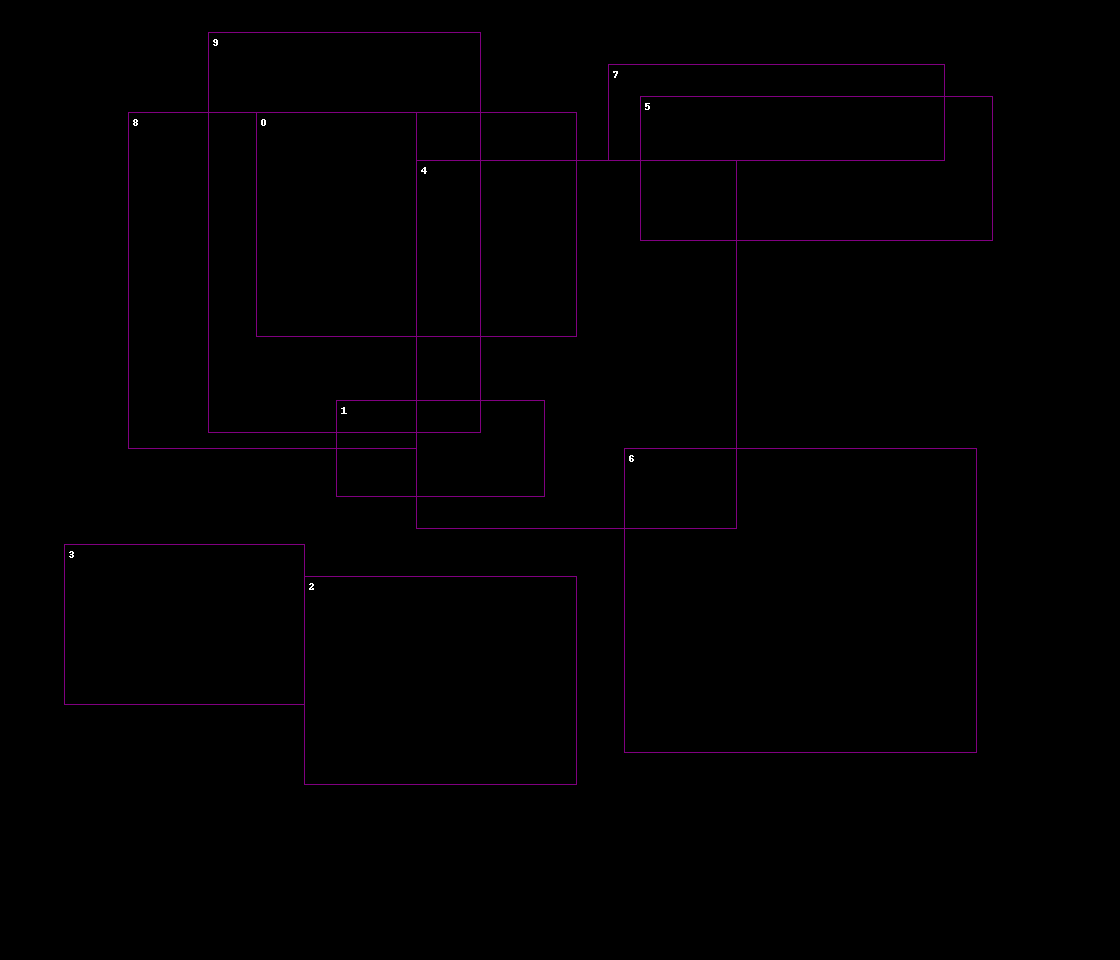
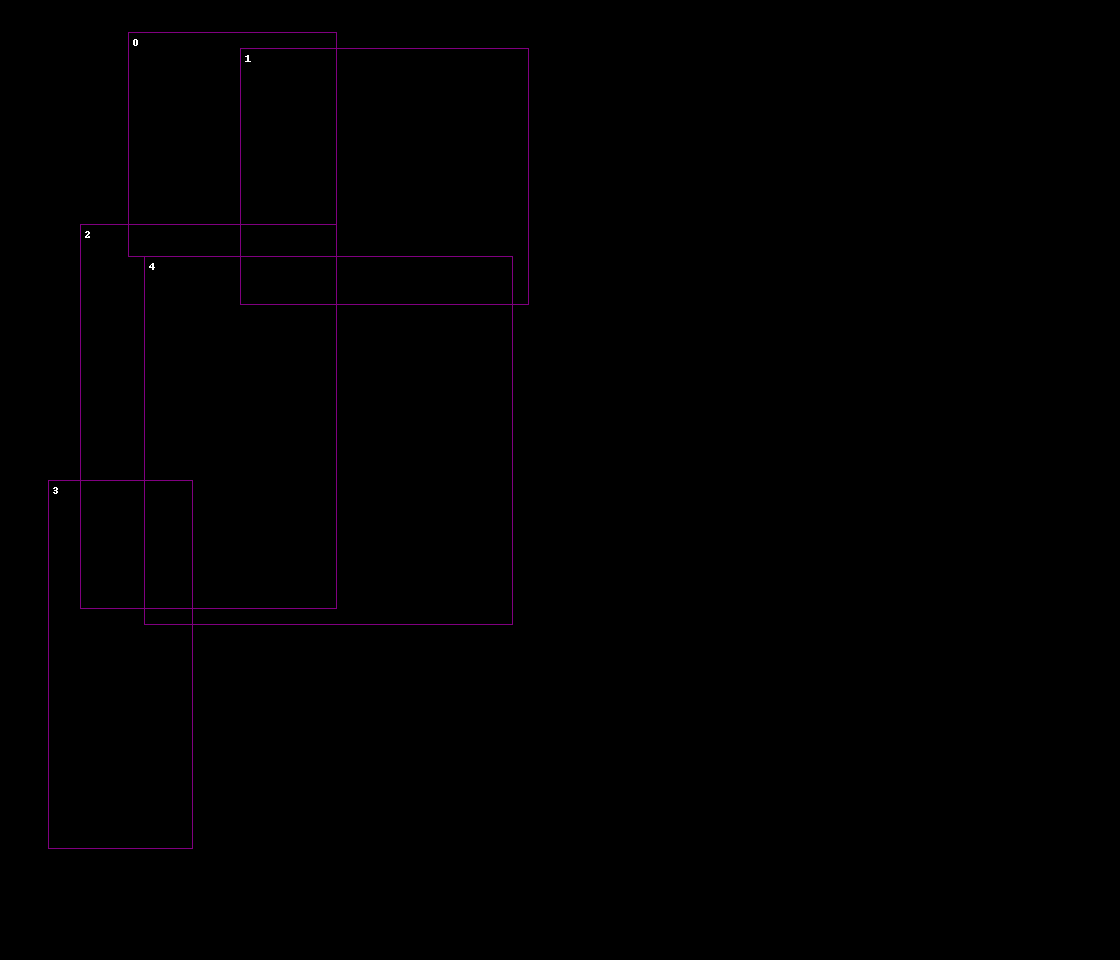
fixed graph implementation

diff --git a/GeneticAlgorithm.py b/GeneticAlgorithm.py
@@ -8,8 +8,8 @@ from pickle import dump
 import pytest
 import os
 
-
-# seed(42)
+np.random.seed(42)
+seed(42)
 
 
 class Room:
@@ -132,12 +132,13 @@ class Building:
     # Graph evaluation(Deprecated)
 
     def prepare_building(self):
-        self.graph = [set()] * len(self.rooms)
+        self.graph = [set() for _ in range(len(self.rooms))]
         for i in range(len(self.rooms)):
             for j in range(len(self.rooms)):
                 if i != j:
                     if self.rooms[i].is_crossovered(self.rooms[j]):
                         self.graph[i].add(j)
+                        self.graph[j].add(i)
 
     def create_image(self, filename):
         img = Image.new("RGB", (self.width * self.teil_size, self.height * self.teil_size))
@@ -226,10 +227,10 @@ class Level:
 
 
 def main():
-    test_level = Level(n=5, rooms_count=10, max_coord=40, max_value=25, min_value=6)
+    test_level = Level(n=5, rooms_count=5, max_coord=40, max_value=25, min_value=6)
     test_level.fit(20)
     test_level.population[0].prepare_building()
-    test_level.population[0].create_image("graph_implementing.png")
+    #test_level.population[0].create_image("graph_implementing.png")
     pprint(test_level.population[0].graph)
     # with open('offered_generated.pkl', 'wb') as fout:
     #     dump(test_level.population, fout)
